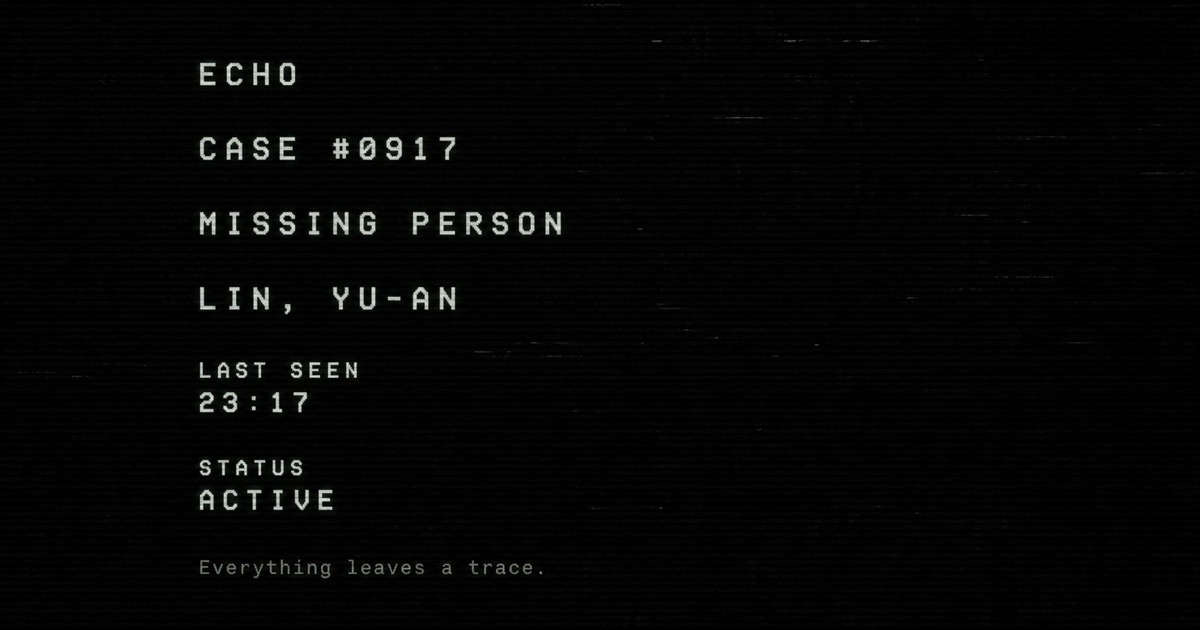
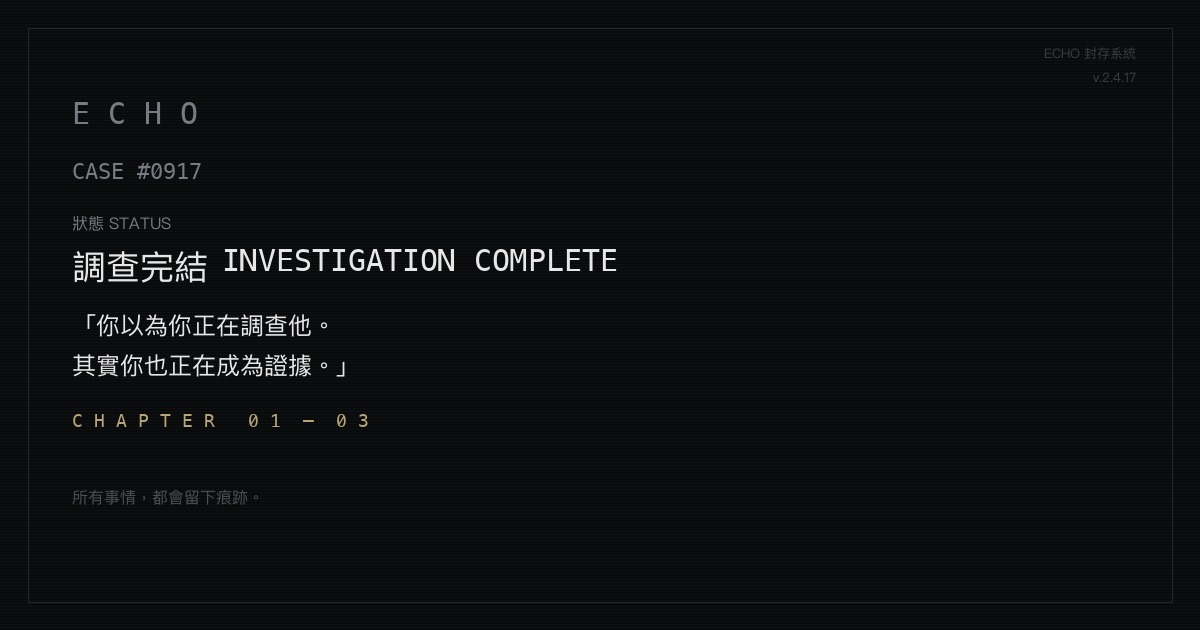
新增分享系統與更新 OG Card（P2）
第三章（全作最終章）結局改為停在一個持久的分享畫面，而不是自動導回
封存庫：提供「分享調查結果」（Web Share API，沒有支援則複製連結）、
「再玩一次」（重置進度重新開始）、「繼續瀏覽封存庫」三個選項。

OG Card 換成反映全三章完結的版本：延續原本案件檔案的視覺調性（無臉孔、
無劇透），文案改為「調查完結」與「CHAPTER 01 — 03」，並用第二輪 GPT
討論定案的標語，不在卡片上洩漏「灰-130＝玩家」這個核心反轉。

diff --git a/js/app.js b/js/app.js
@@ -1818,10 +1818,52 @@ const App = (() => {
     div.innerHTML = `<div class="label">灰-131</div><div style="height:6px"></div><div style="font-size:16px;color:var(--warning)">新調查已開始 NEW INVESTIGATION STARTED</div>`;
     document.body.appendChild(div);
     setTimeout(() => {
-      div.remove();
       STATE.set('ch3Final', true);
-      location.hash = '#/archive';
-    }, 3000);
+      div.innerHTML = `
+        <div class="label">案件結案 CASE CLOSED</div>
+        <div style="height:4px"></div>
+        <div style="font-size:18px;letter-spacing:0.08em">案件 CASE #0917</div>
+        <div style="max-width:400px;font-size:15px;line-height:1.9;color:var(--text);margin-top:16px">「你以為你正在調查他。<br>其實你也正在成為證據。」</div>
+        <div style="font-size:13px;letter-spacing:0.16em;color:var(--evidence);margin-top:18px">CHAPTER 01 — 03</div>
+        <button class="btn" style="margin-top:32px;max-width:280px" onclick="App.shareResult()">[ 分享調查結果 → ]</button>
+        <button class="btn" style="margin-top:10px;max-width:280px" onclick="App.replayGame()">[ 再玩一次 ]</button>
+        <div class="entry-howto-link" style="margin-top:18px" onclick="App.exitEndingToArchive()">繼續瀏覽封存庫</div>`;
+    }, 2200);
+  }
+  function shareToast(msg) {
+    const toast = document.createElement('div');
+    toast.className = 'new-message-toast';
+    toast.textContent = msg;
+    document.body.appendChild(toast);
+    setTimeout(() => toast.remove(), 1800);
+  }
+  function shareResult() {
+    const shareData = {
+      title: '最後一則貼文 — ECHO CASE #0917',
+      text: '「你以為你正在調查他。其實你也正在成為證據。」',
+      url: location.origin + location.pathname,
+    };
+    if (navigator.share) {
+      navigator.share(shareData).catch(() => {});
+      return;
+    }
+    if (navigator.clipboard && navigator.clipboard.writeText) {
+      navigator.clipboard.writeText(shareData.url)
+        .then(() => shareToast('連結已複製'))
+        .catch(() => shareToast(shareData.url));
+    } else {
+      shareToast(shareData.url);
+    }
+  }
+  function replayGame() {
+    STATE.reset();
+    location.hash = '#/';
+    location.reload();
+  }
+  function exitEndingToArchive() {
+    const div = document.querySelector('.ending-screen');
+    if (div) div.remove();
+    location.hash = '#/archive';
   }
 
   /* ---------------- Router ---------------- */
@@ -1935,6 +1977,7 @@ const App = (() => {
     selectCh3ChainNode, resetCh3Chain,
     revealCh3Evidence, submitCh3Judgement,
     ch3FinalReveal, ch3ReturnToCase,
+    shareResult, replayGame, exitEndingToArchive,
   };
 })();
 

diff --git a/index.html b/index.html
@@ -9,15 +9,15 @@
 <link rel="icon" href="data:,">
 <meta property="og:type" content="website">
 <meta property="og:site_name" content="ECHO">
-<meta property="og:title" content="ECHO — CASE #0917">
-<meta property="og:description" content="她說，如果你看到這篇，代表她已經死了。">
+<meta property="og:title" content="最後一則貼文 — ECHO CASE #0917">
+<meta property="og:description" content="「你以為你正在調查他。其實你也正在成為證據。」">
 <meta property="og:image" content="https://game-roan-three-50.vercel.app/assets/images/og-card.jpg">
 <meta property="og:image:width" content="1200">
 <meta property="og:image:height" content="630">
 <meta property="og:url" content="https://game-roan-three-50.vercel.app/">
 <meta name="twitter:card" content="summary_large_image">
-<meta name="twitter:title" content="ECHO — CASE #0917">
-<meta name="twitter:description" content="她說，如果你看到這篇，代表她已經死了。">
+<meta name="twitter:title" content="最後一則貼文 — ECHO CASE #0917">
+<meta name="twitter:description" content="「你以為你正在調查他。其實你也正在成為證據。」">
 <meta name="twitter:image" content="https://game-roan-three-50.vercel.app/assets/images/og-card.jpg">
 <link rel="stylesheet" href="css/style.css">
 </head>
